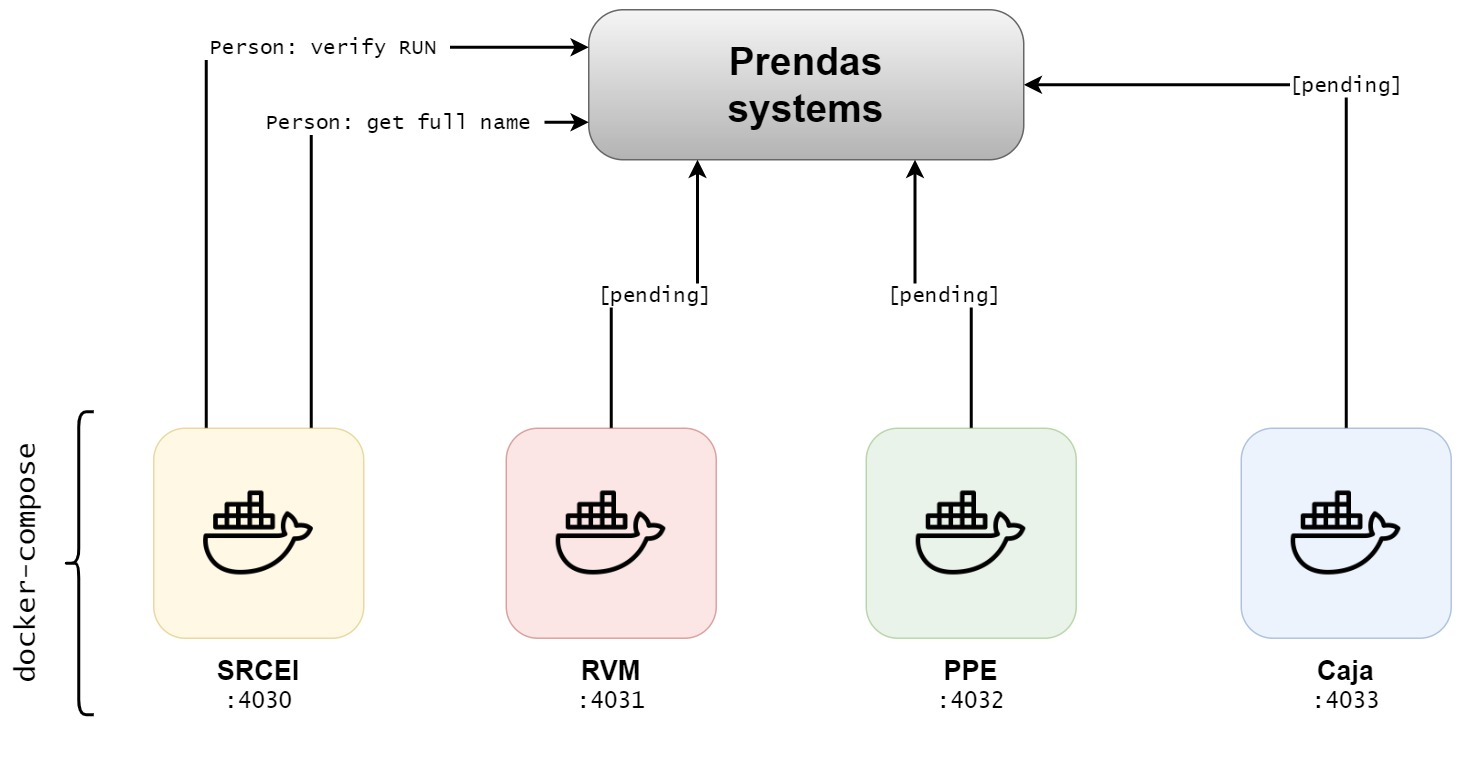
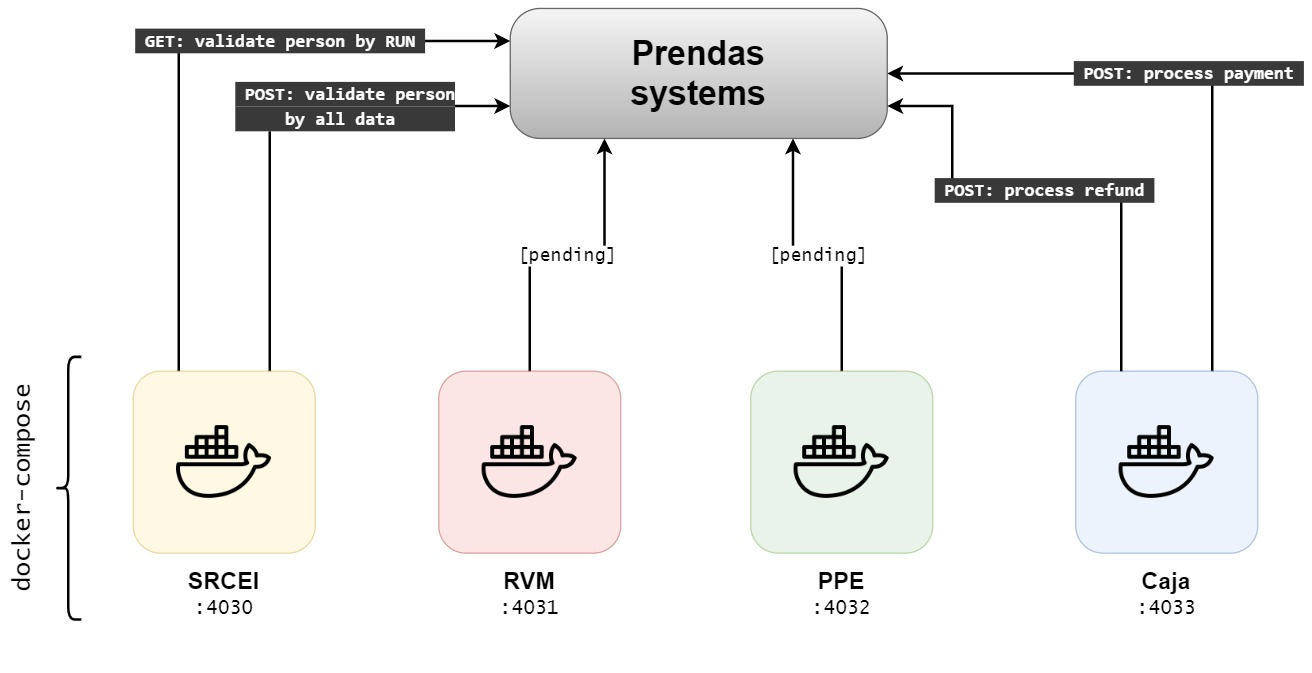
Updated diagrams

diff --git a/README.md b/README.md
@@ -1,5 +1,7 @@
 # IIS_servicios_base
 
+> Introducción a la Ingeniería en Software, Universidad de los Andes, 2021
+
 This project will use all systems as git submodules, for running them all easily with [`docker-compose`](https://docs.docker.com/compose/), a tool for managing multi-container Docker applications. This is much better than setting an rough command to run them one by one, and allows to restart them (or not) on failure, enhanced logging management, etc.
 
 ## Dependencies
@@ -17,7 +19,9 @@ The exposed API ports for the systems can be configured at [`compose.env`](./com
 
 ![API calls](./docs/diagram_api_calls.jpg "API calls diagram")
 
-<!-- TODO: overall description and usage. Insert images. -->
+## API documentation
+
+The usage docs for the APIs are located at `./docs` in this project. All of them contain sample `curl` commands (which is a console tool for making HTTP requests, working on Linux as well as Windows OSes).
 
 ## Build and run
 
